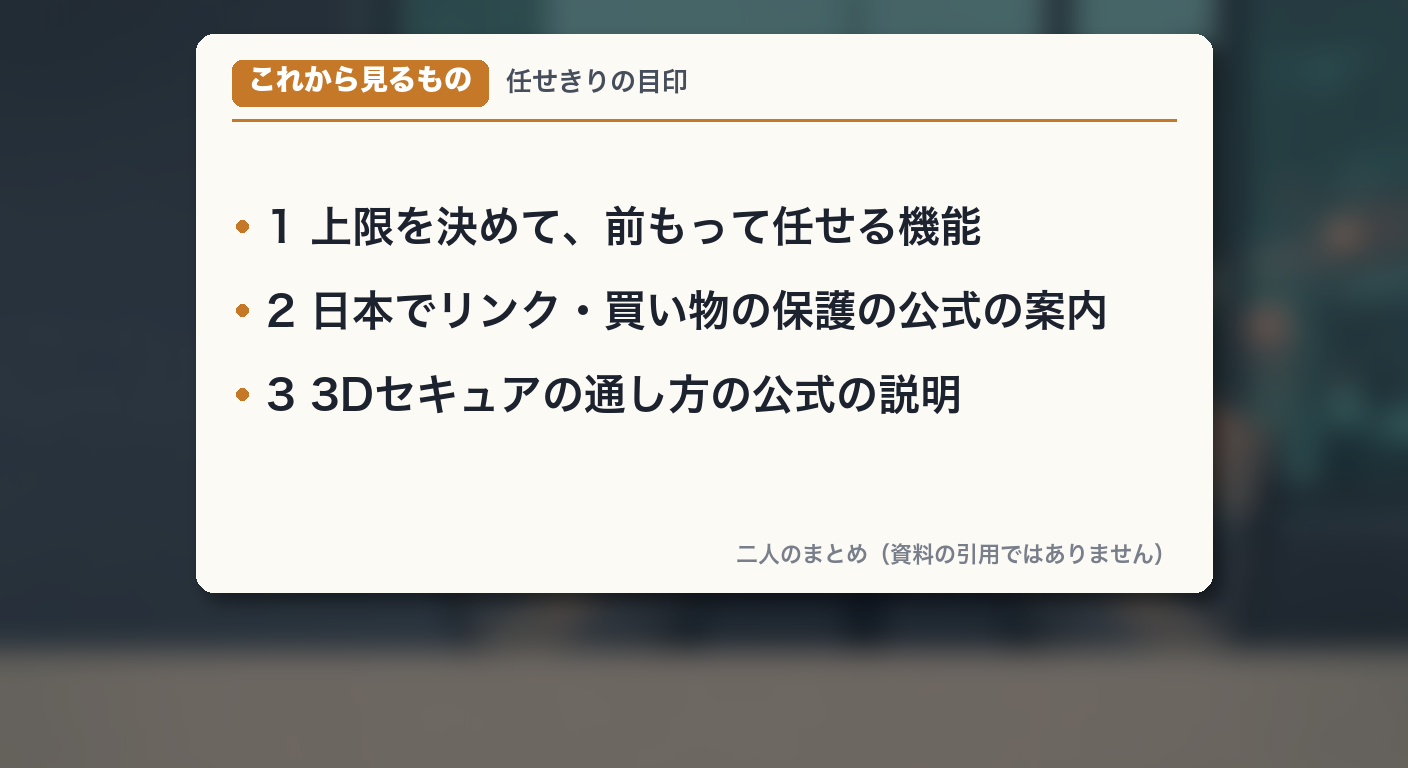
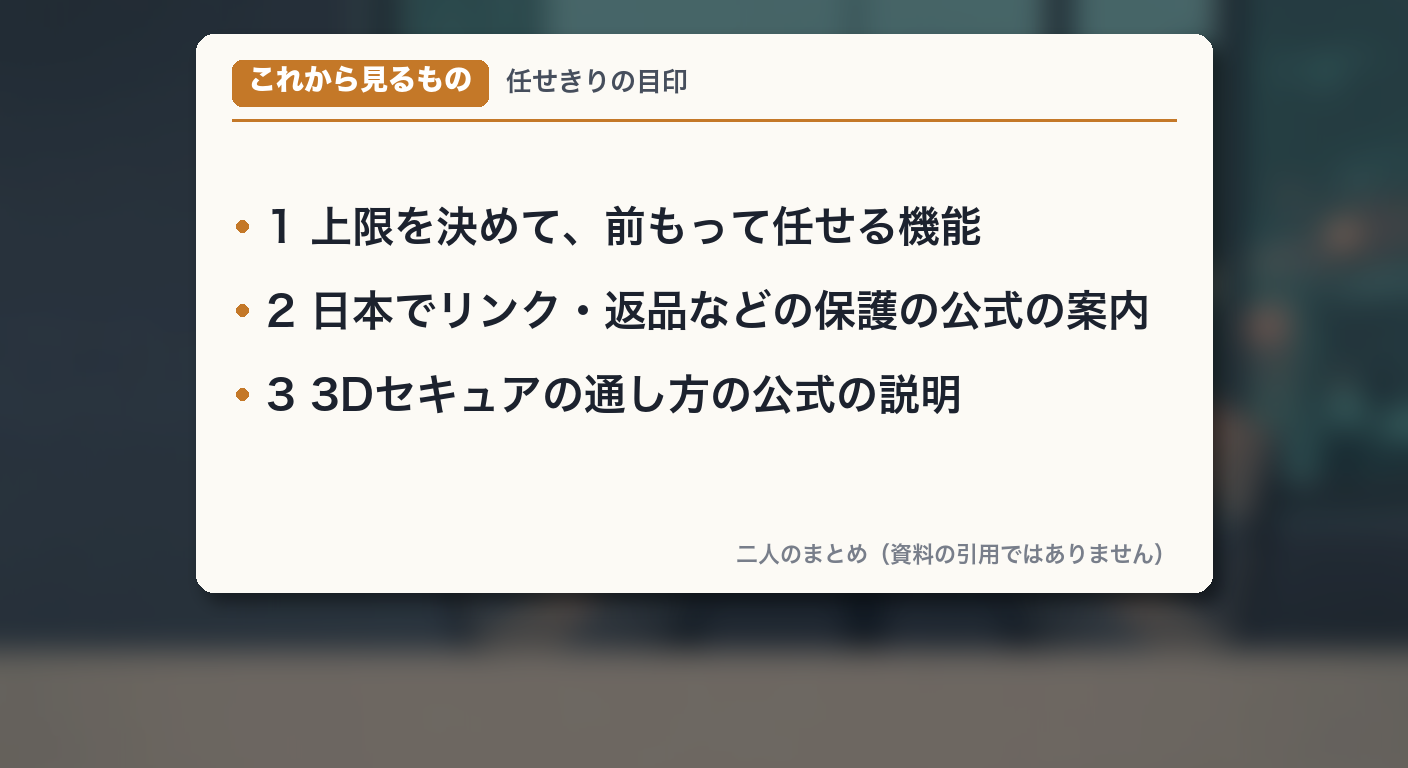
kl059: 初見レビュー1周目の指摘を反映

Changed region(s): [[0.4062, 0.375, 0.8125, 0.4375]]

diff --git a/script_prep/kl059.md b/script_prep/kl059.md
@@ -108,7 +108,7 @@
 
 | 対象 | 予告（teaser）・タイトル案 | 本編で使う言い方 | 使わない言い方 |
 |---|---|---|---|
-| 体験者 | 「体験者が」（文頭） | 「体験者」。S05 で「この話をしてくれた体験者は、実際にミューズで払った人」 | 制作者、なるさん、僕・私（大輔が自分で買ったように聞こえる） |
+| 体験者 | 「ある利用者が」（文頭。初見レビュー v2 r1 で「体験者」が予告で未定義と指摘） | 「体験者」。S05 の1行目で「日本でミューズを使って、実際に買い物をした一人の利用者から、この番組が聞いたもの。この回では、その人を、体験者と呼ぶ」と立場を定義 | 制作者、スタッフ、知人、視聴者（確認していない関係）、なるさん、僕・私（大輔が自分で買ったように聞こえる） |
 | サービス | Muse（ティザーで1回だけの固有名） | 台詞「ミューズ」、字幕 display「Muse」。初出 S05「インスタグラムを運営しているメタの、ミューズ」 | Meta AI、エージェント（台詞で使わない） |
 | 会社 | （15秒以内は出さない） | 「メタ」（display Meta）。ストライプ（display Stripe）は「決済の会社」。OpenAI は S05 で「ChatGPTを作っているOpenAI」 | フェイスブック社 |
 | 資料: Meta 日本向け | — | 「メタの日本向けの案内」 | 日本の発表、プレスリリース |
@@ -119,15 +119,15 @@
 | 承認 | 「払う前に、払っていい？と聞く画面」 | 「最後のひと押し」（定義後）。体験者の話は「払っていいか、を確かめる画面」 | 承認アクション、セキュリティ確認、生体認証 |
 | 任せきり | 「最後のひと押しまで任せきり」 | 「任せきり」（S05 で定義）。中身は「上限、品目、期間を決めて、前もって許す」 | 丸投げ、事前承認 |
 | 払い方1 | — | 「店に預けてあるカード」 | 保存決済、登録済みの決済情報（初出の説明以外） |
-| 払い方2 | — | 「リンク」（display Link）＝「ストライプという決済の会社の、ネットの財布」 | Stripe Link、ウォレット（ChatGPT の財布と混ざる） |
+| 払い方2 | — | 「ストライプという決済の会社の、リンクという名前のネットの財布」（説明を先に。URLのリンクに聞こえないように）。以後「リンク」（display Link） | Stripe Link、ウォレット（ChatGPT の財布と混ざる） |
 | ChatGPT の財布 | （15秒以内は出さない） | 「ChatGPTウォレット」＝「AIが払うための財布」。S05 で軽く、S11 で中身 | 財布アプリ |
 | 3Dセキュア | 「カード会社の本人確認で止まった」 | 「カード会社の本人確認、3Dセキュア」（S10 で定義）、以後「3Dセキュア」 | 本人認証サービス、EMV |
-| 買い物の保護 | — | 「リンクの、壊れた品や返品などの買い物の保護」（S06）、判定では「買い物の保護」 | 購入保護（台詞では使わない。概要欄だけ） |
+| 買い物の保護 | — | 「リンクの、壊れた品や返品などの買い物の保護」（S06）、判定では「壊れた品や返品の保護」 | 購入保護（台詞では使わない。概要欄だけ） |
 | 店 | 「通販」 | 「通販サイト」（ペット用品）、「映画館のチケット」 | 店名・映画館名 |
-| 前の回 | — | 「1か月前、日本に来たときの回」（S05・S13）。概要欄にリンク | kl048 |
+| 前の回 | — | 「1か月前、ミューズが日本に来たときにも、この番組で取り上げた」（S05）、S13「1か月前、この番組は」。内容は「メールを送るのも、お金を払うのも、最後のボタンは自分で押そう」の一言だけ。概要欄にリンク | kl048、目的語の無い「送る」 |
 | 時期: Muse 日本 | — | 「10月に日本で始まった」 | 10月23日（細かい） |
 | 時期: ChatGPT ウォレット | — | 「アメリカで今月」 | 11月13日 |
-| 時期: 判定 | — | 「もう使えるか」「この1年」 | 来年 |
+| 時期: 判定 | — | 札「もうすぐ来る」＝「誰でも普通に使えるようになるまでの話」（S12）。任せきりは「今は、いつ来るとは言えない。次の3つが出たら言える」 | 来年、「もう始まってる、という意味」（札の言葉と食い違って聞こえる） |
 | 沙織の予想の理由 | — | 「日本向けの案内には、ショッピングに使える、とはあるけど、どう払うかまでは書いてない」（S05）。S09 の turn・判定も同じ軸 | 「怪しい」「盛ってる」 |
 
 ## 8. パッケージ案（タイトル・サムネ見出し・冒頭15秒・検索語）
